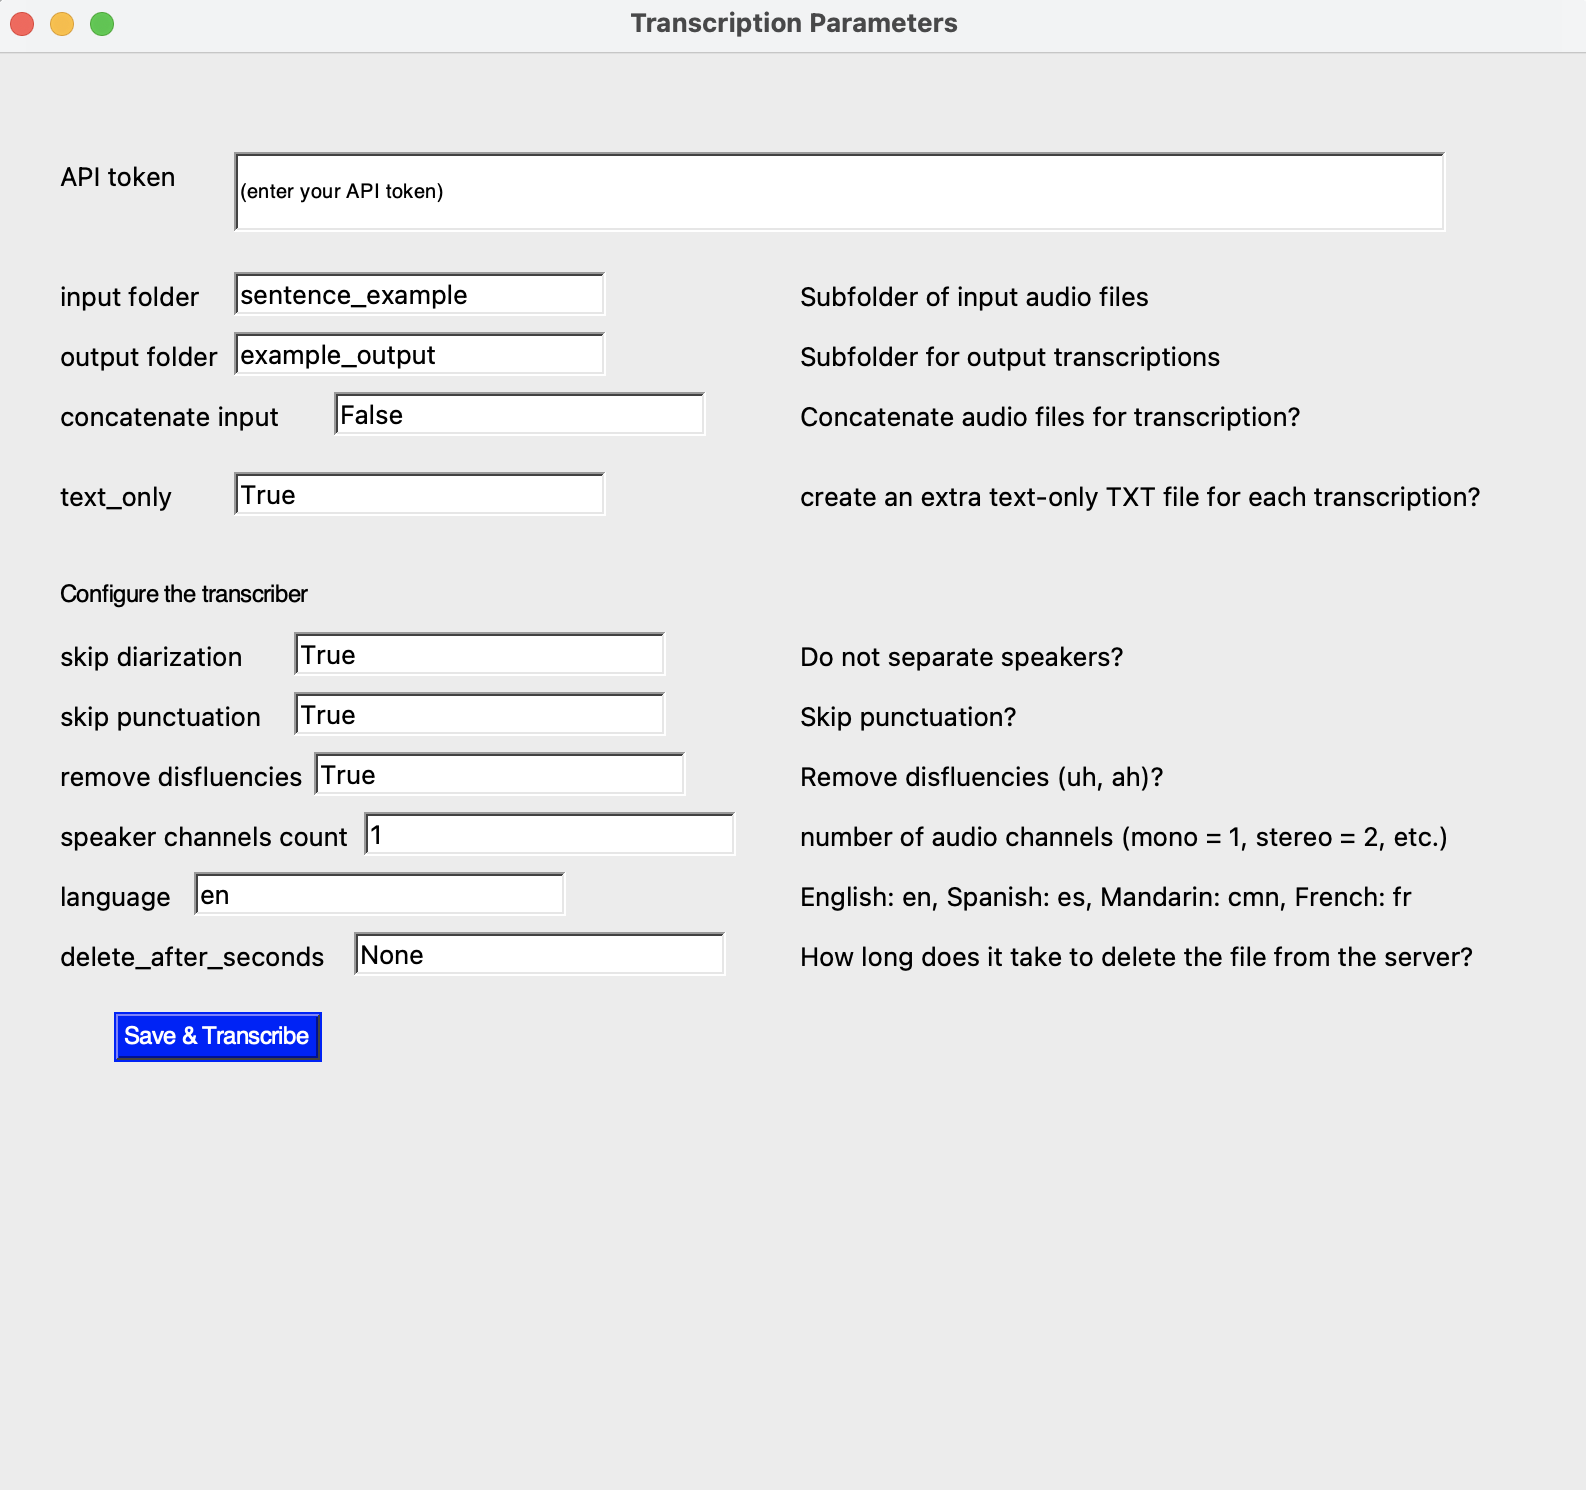
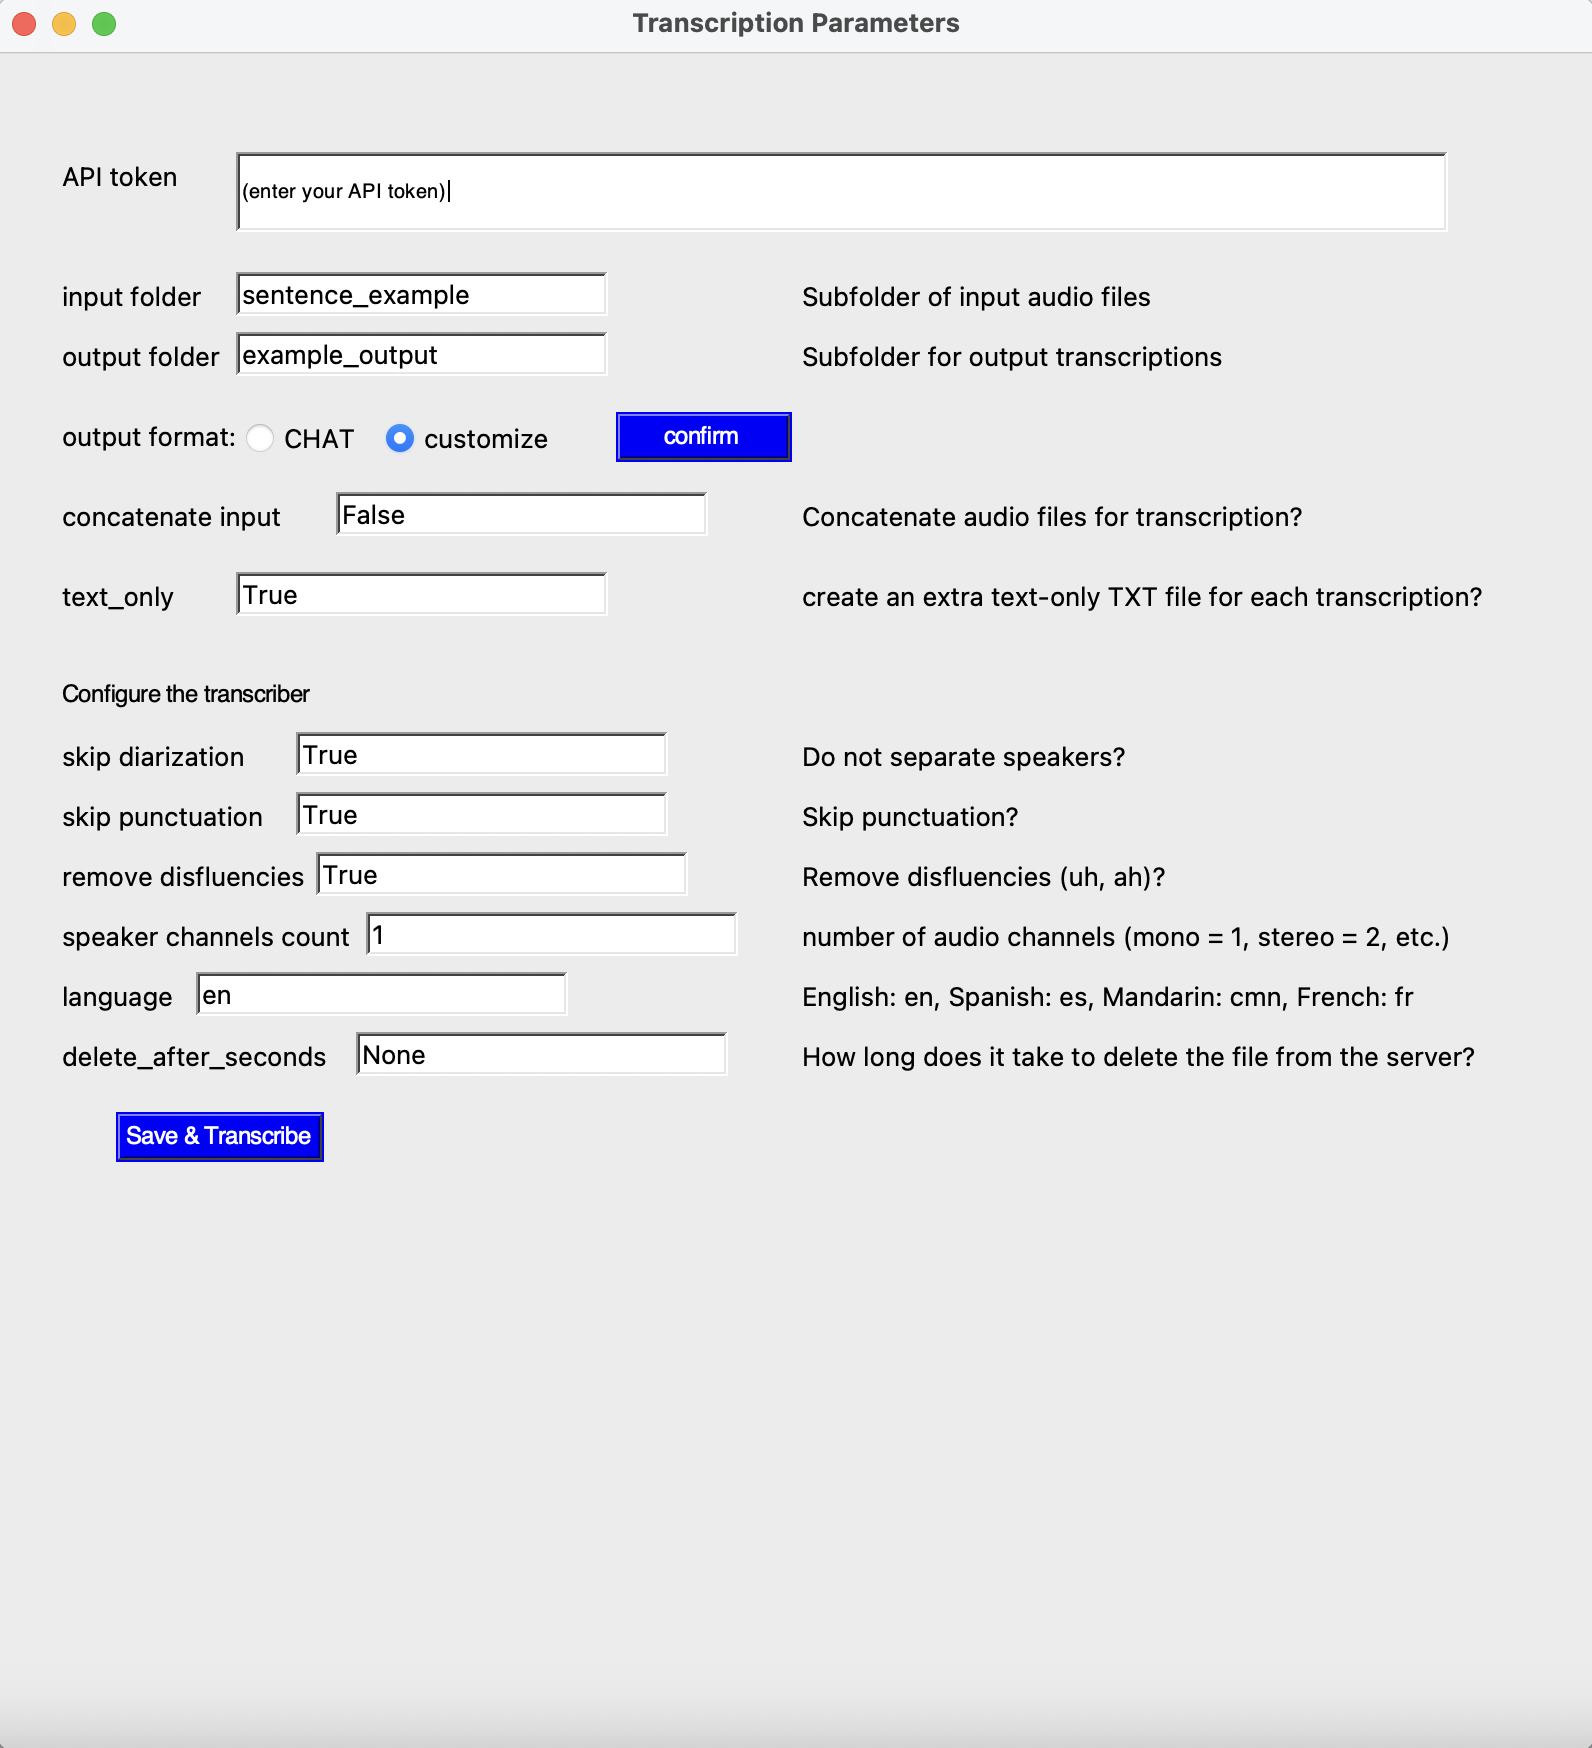
readme update

diff --git a/README.md b/README.md
@@ -76,34 +76,32 @@ Clone the repository if you are familiar with Git. Otherwise follow these steps.
 
 <br/>
 
-## Usage
 
-Users who prefer to use the GUI should skip to the [GUI Usage](#GUI-usage) section. If you have limited programming experience, we recommend you use the GUI.
+## GUI usage
 
-### Edit transcription_config.ini in a text editor
+Use of the GUI allows you to enter your access token, input and output folders, and alter transcription variables without directly editing the configuration file.
 
-The transcription_config.ini file stores your API token, input and output folder names, and transcription variables.
+1. Run the script from an IDE or from the command line using this line of code after navigating to your project folder
 
-#### Open Transcription_config.ini in a text editor
+```bash
+python3 str_gui.py
+```
 
-Example:
+2. Alter the variables in the pop-up window to fit your transcription needs. See [transcription variables](#Transcription-variables) for a description of each variable.
 
-<p align="center">
-<img src="./asset/example_config_file.png" alt="config file example" width="75%"/>
-</p>
-
-#### Transcription variables
+### Transcription variables
 
 These variables must be specified
 
   - **API token** - Your API token.
   - **input_folder** - The name of the folder that stores your audio files.
   - **output_folder** - The name of the folder that will store transcriptions.
+  - **output_format** - Output format of the text-only (.txt) file. Choose `CHAT` to have a CHAT format output file. Choose `customize` to have a customized format output file. Be sure to click `confirm` before start transcribing.
 
 Optional settings to customize transcription
 
   - **concatenate_input** - Default: `False`. Specifies whether audio files will be combined into one long audio file prior to transcription. Concatenation speeds up transcription and is less costly when individual sound files contain one or two spoken words. Specify `True` to concatenate your audio files. Specify `False` to transcribe each audio file separately.
-  - **text_only** - Default: `False`. Specify if a text-only (.txt file) will be generated in addition to a .csv file. Specify `True` to have transcriptions also output in a .txt file. Specify `False` to have transcription only in .csv files. Most useful for transcribing sentences and conversations. See [output](#Output-formats) for details on output formats and examples.
+  - **text_only** - Default: `False`. Specify if a text-only (.txt) file will be generated in addition to a .csv file. Specify `True` to have transcriptions also output in a .txt file. Specify `False` to have transcription only in .csv files. Most useful for transcribing sentences and conversations. See [output](#Output-formats) for details on output formats and examples.
 
 Transcription settings
 
@@ -120,40 +118,6 @@ These additional transcription variables are included in str.py but commented ou
   - **remove_atmospherics** - Default: `False`. Specify `True`, if you would like to remove `<laugh>`, `<affirmative>`, etc., otherwise specify `False`.
   - **filter_profanity** - Default: `False`. Specify `True`, if you would like to filter profanity, otherwise specify `False`.
   - **custom_vocabularies** - Default: `None`. Provide your own vocabulary to improve transcription accuracy of these words (e.g. unique names, specific terminologies, etc.). Check [custom vocabulary](https://docs.rev.ai/api/custom-vocabulary/#:~:text=Custom%20vocabularies%20are%20submitted%20as,to%201000%20for%20other%20languages) for details.
-
-**Save the file when finished.**
-
-
-
-<br/>
-
-### Run the script
-
-Run the script from an IDE or from the command line using this line of code after navigating to your project folder.
-
-```bash
-python3 str.py
-```
-
-Transcription messages will appear in the command line that inform you of what the program is currently doing and when the program has finished transcription.
-
-You will see "Configuration check passed." if all transcription variables have valid values. If there are errors in the entries, error messages will appear and instruct you where the errors are. Once the errors are fixed, run the script again to transcribe your audio.
-
-Once all audio files are transcribed, you will see the message "All transcription is finished", and your transcription file will appear in your output folder. This may take a few minutes.
-
-<br/>
-
-## GUI usage
-
-Use of the GUI allows you to enter your access token, input and output folders, and alter transcription variables without directly editing the configuration file.
-
-1. Run the script from an IDE or from the command line using this line of code after navigating to your project folder
-
-```bash
-python3 str_gui.py
-```
-
-2. Alter the variables in the pop-up window to fit your transcription needs. See [transcription variables](#Transcription-variables) for a description of each variable.
 
 
 3. Click "Save & Transcribe" to transcribe your audio files.
@@ -208,6 +172,12 @@ Example output:
 
 <p align="center">
 <img src="./asset/example_output_2p1.png" alt="example text-only output" width="75%"/>
+</p>
+
+If **output_format** is specified as `CHAT`. The .txt file will be output in the CHAT format.
+
+<p align="center">
+<img src="./asset/example_output_CHAT.png" alt="example CHAT output" width="75%"/>
 </p>
 
 <br/>
@@ -305,6 +275,25 @@ Example txt output:
 <p align="center">
 <img src="./asset/example_output_3p.png" alt="example text-only output 3" width="75%"/>
 </p>
+
+
+If you would like to have the txt output in CHAT format, set the variables as shown below.
+
+<p align="center">
+<img src="./asset/example_gui_CHAT.png" alt="example gui 3" width="75%"/>
+</p>
+
+Example CHAT output:
+
+<p align="center">
+<img src="./asset/example_output_CHAT.png" alt="example text-only output 3" width="75%"/>
+</p>
+
+
+<p align="center">
+<img src="./asset/example_output_3p.png" alt="example text-only output 3" width="75%"/>
+</p>
+
 
 <br/><br/>
 
